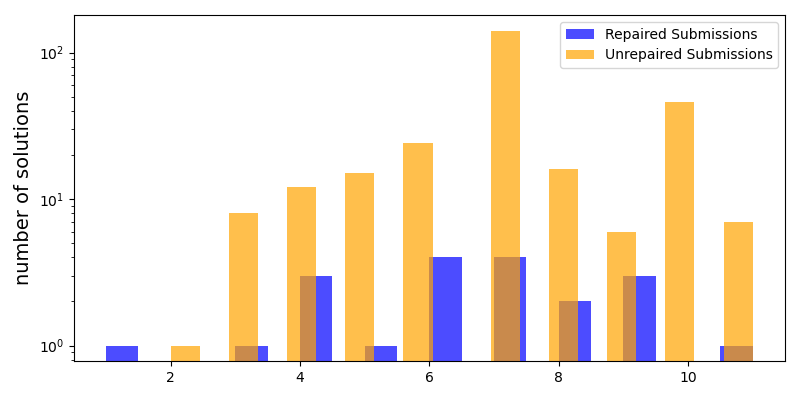
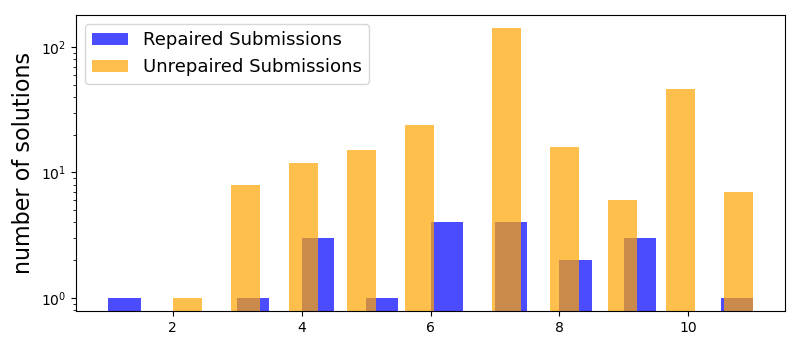
update discussion figure

diff --git a/src/evaluation/figures.py b/src/evaluation/figures.py
@@ -123,13 +123,13 @@ class Figures:
         print(f"Max num of buggy methods - patched {max(num_methods_patched)}, unpatched {max(num_methods_unpatched)}")
         print(f"Min num of buggy methods - patched {min(num_methods_patched)}, unpatched {min(num_methods_unpatched)}")
 
-        plt.figure(figsize=(8, 4))
+        plt.figure(figsize=(8, 3.5))
         plt.hist(num_methods_patched, bins=20, alpha=0.7, label='Repaired Submissions', color='blue')
         plt.hist(num_methods_unpatched, bins=20, alpha=0.7, label='Unrepaired Submissions', color='orange')
 
         plt.yscale("log")
-        plt.ylabel('number of solutions', fontsize=14)
-        plt.legend()
+        plt.ylabel('number of solutions', fontsize=16)
+        plt.legend(fontsize=13)
         plt.tight_layout()
         plt.show()
 
@@ -160,13 +160,13 @@ class Figures:
         print(f"unpatched solutions - average: {statistics.mean(num_tests_unpatched)}")
         print(f"unpatched solutions - test failure rate: {statistics.mean(num_tests_unpatched) / 60}")
 
-        plt.figure(figsize=(8, 4))
+        plt.figure(figsize=(8, 3.5))
         plt.hist(num_tests_patched, bins=20, alpha=0.7, label='Repaired Submissions', color='blue')
         plt.hist(num_tests_unpatched, bins=20, alpha=0.7, label='Unrepaired Submissions', color='orange')
 
         plt.yscale("log")
-        plt.ylabel('number solutions', fontsize=14)
-        plt.legend()
+        plt.ylabel('number solutions', fontsize=16)
+        plt.legend(fontsize=13)
         plt.tight_layout()
         plt.show()
 
@@ -176,6 +176,6 @@ if __name__ == '__main__':
     # f.box_plot_rq1()
     # f.box_plot_rq2()
     # f.venn_diagram_rq2()
-    # f.histogram_rq3_buggy_methods()
-    f.histogram_rq3_num_failed_tests()
+    f.histogram_rq3_buggy_methods()
+    # f.histogram_rq3_num_failed_tests()
     # f.get_below_threshold_unpatched()

diff --git a/src/repair/llm.py b/src/repair/llm.py
@@ -165,7 +165,7 @@ class LLMRepair:
         fixed_submissions = 0
         partial_fixed_submissions = 0
         fixed_bugs = 0
-        purged_path = Path("/Users/ruizhengu/Experiments/patches_3")
+        purged_path = Path("/Users/Experiments/patches_3")
         purged_submissions = (_ for _ in purged_path.iterdir() if _.is_dir())
         for submission in purged_submissions:
             try:
